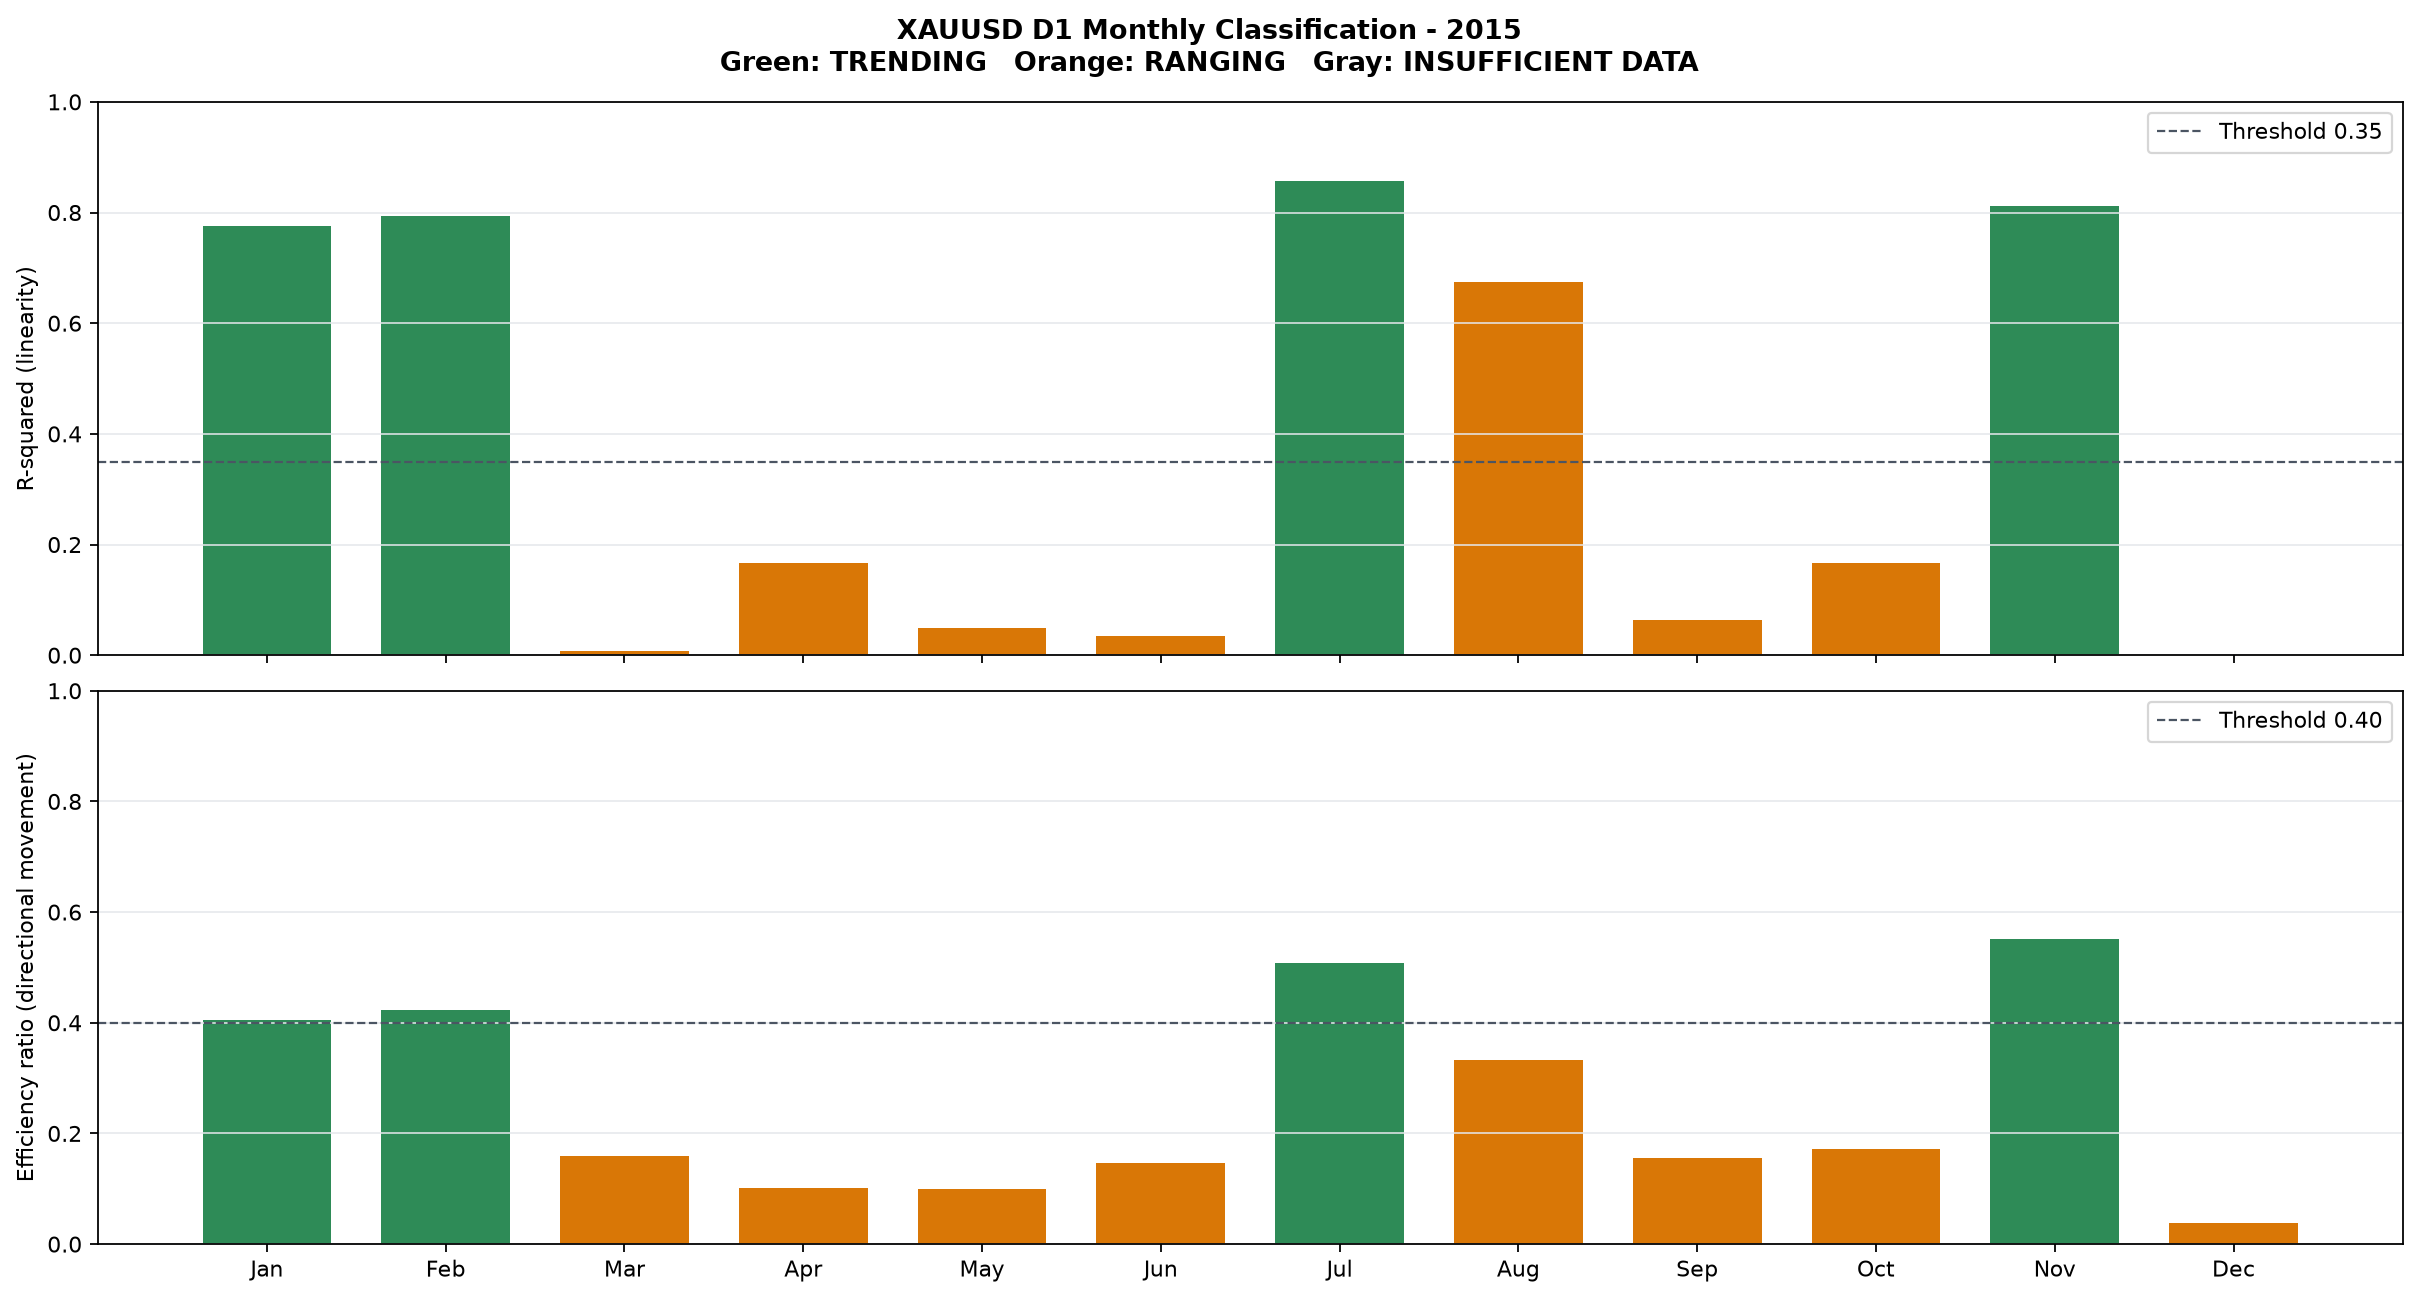
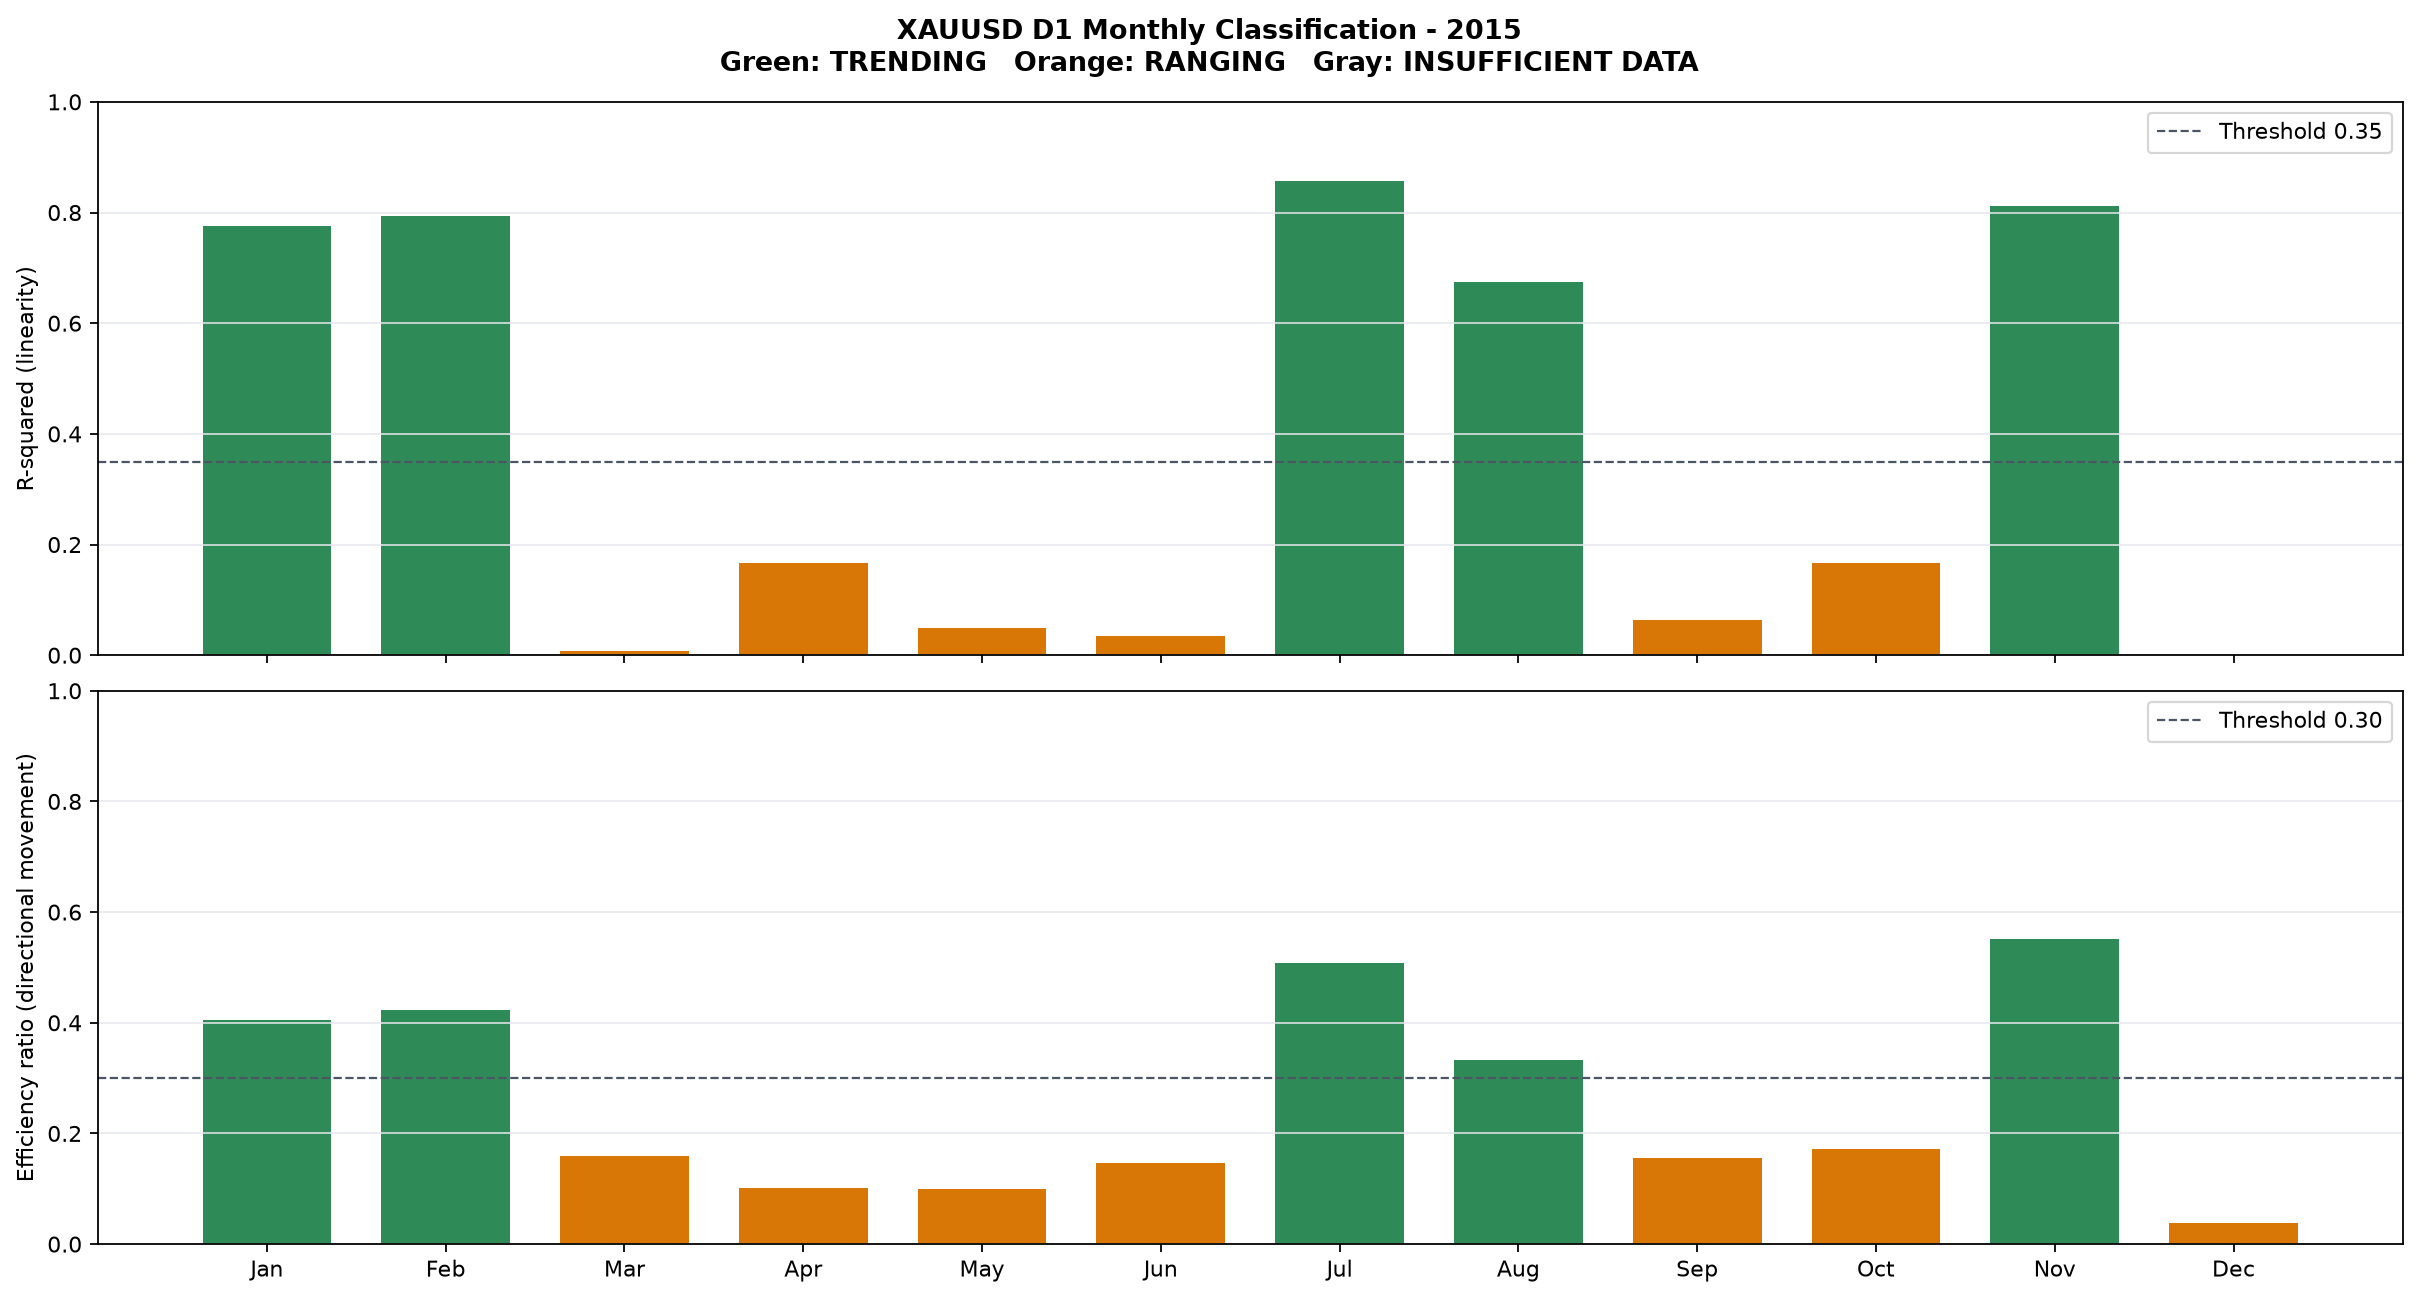
yeet

Changed region(s): [[0.5893, 0.2157, 0.6824, 0.5239], [0.5893, 0.8012, 0.6824, 0.9553]]

diff --git a/4-classify.py b/4-classify.py
@@ -14,7 +14,7 @@ import polars as pl
 DEFAULT_INPUT = Path("XAUUSD_D1_clean.parquet")
 DEFAULT_OUTPUT_DIR = Path("output/classifications/xauusd_d1")
 R_SQUARED_THRESHOLD = 0.35
-EFFICIENCY_RATIO_THRESHOLD = 0.40
+EFFICIENCY_RATIO_THRESHOLD = 0.30
 TRENDING_COLOR = "#2e8b57"
 RANGING_COLOR = "#d97706"
 INSUFFICIENT_DATA_COLOR = "#9ca3af"
